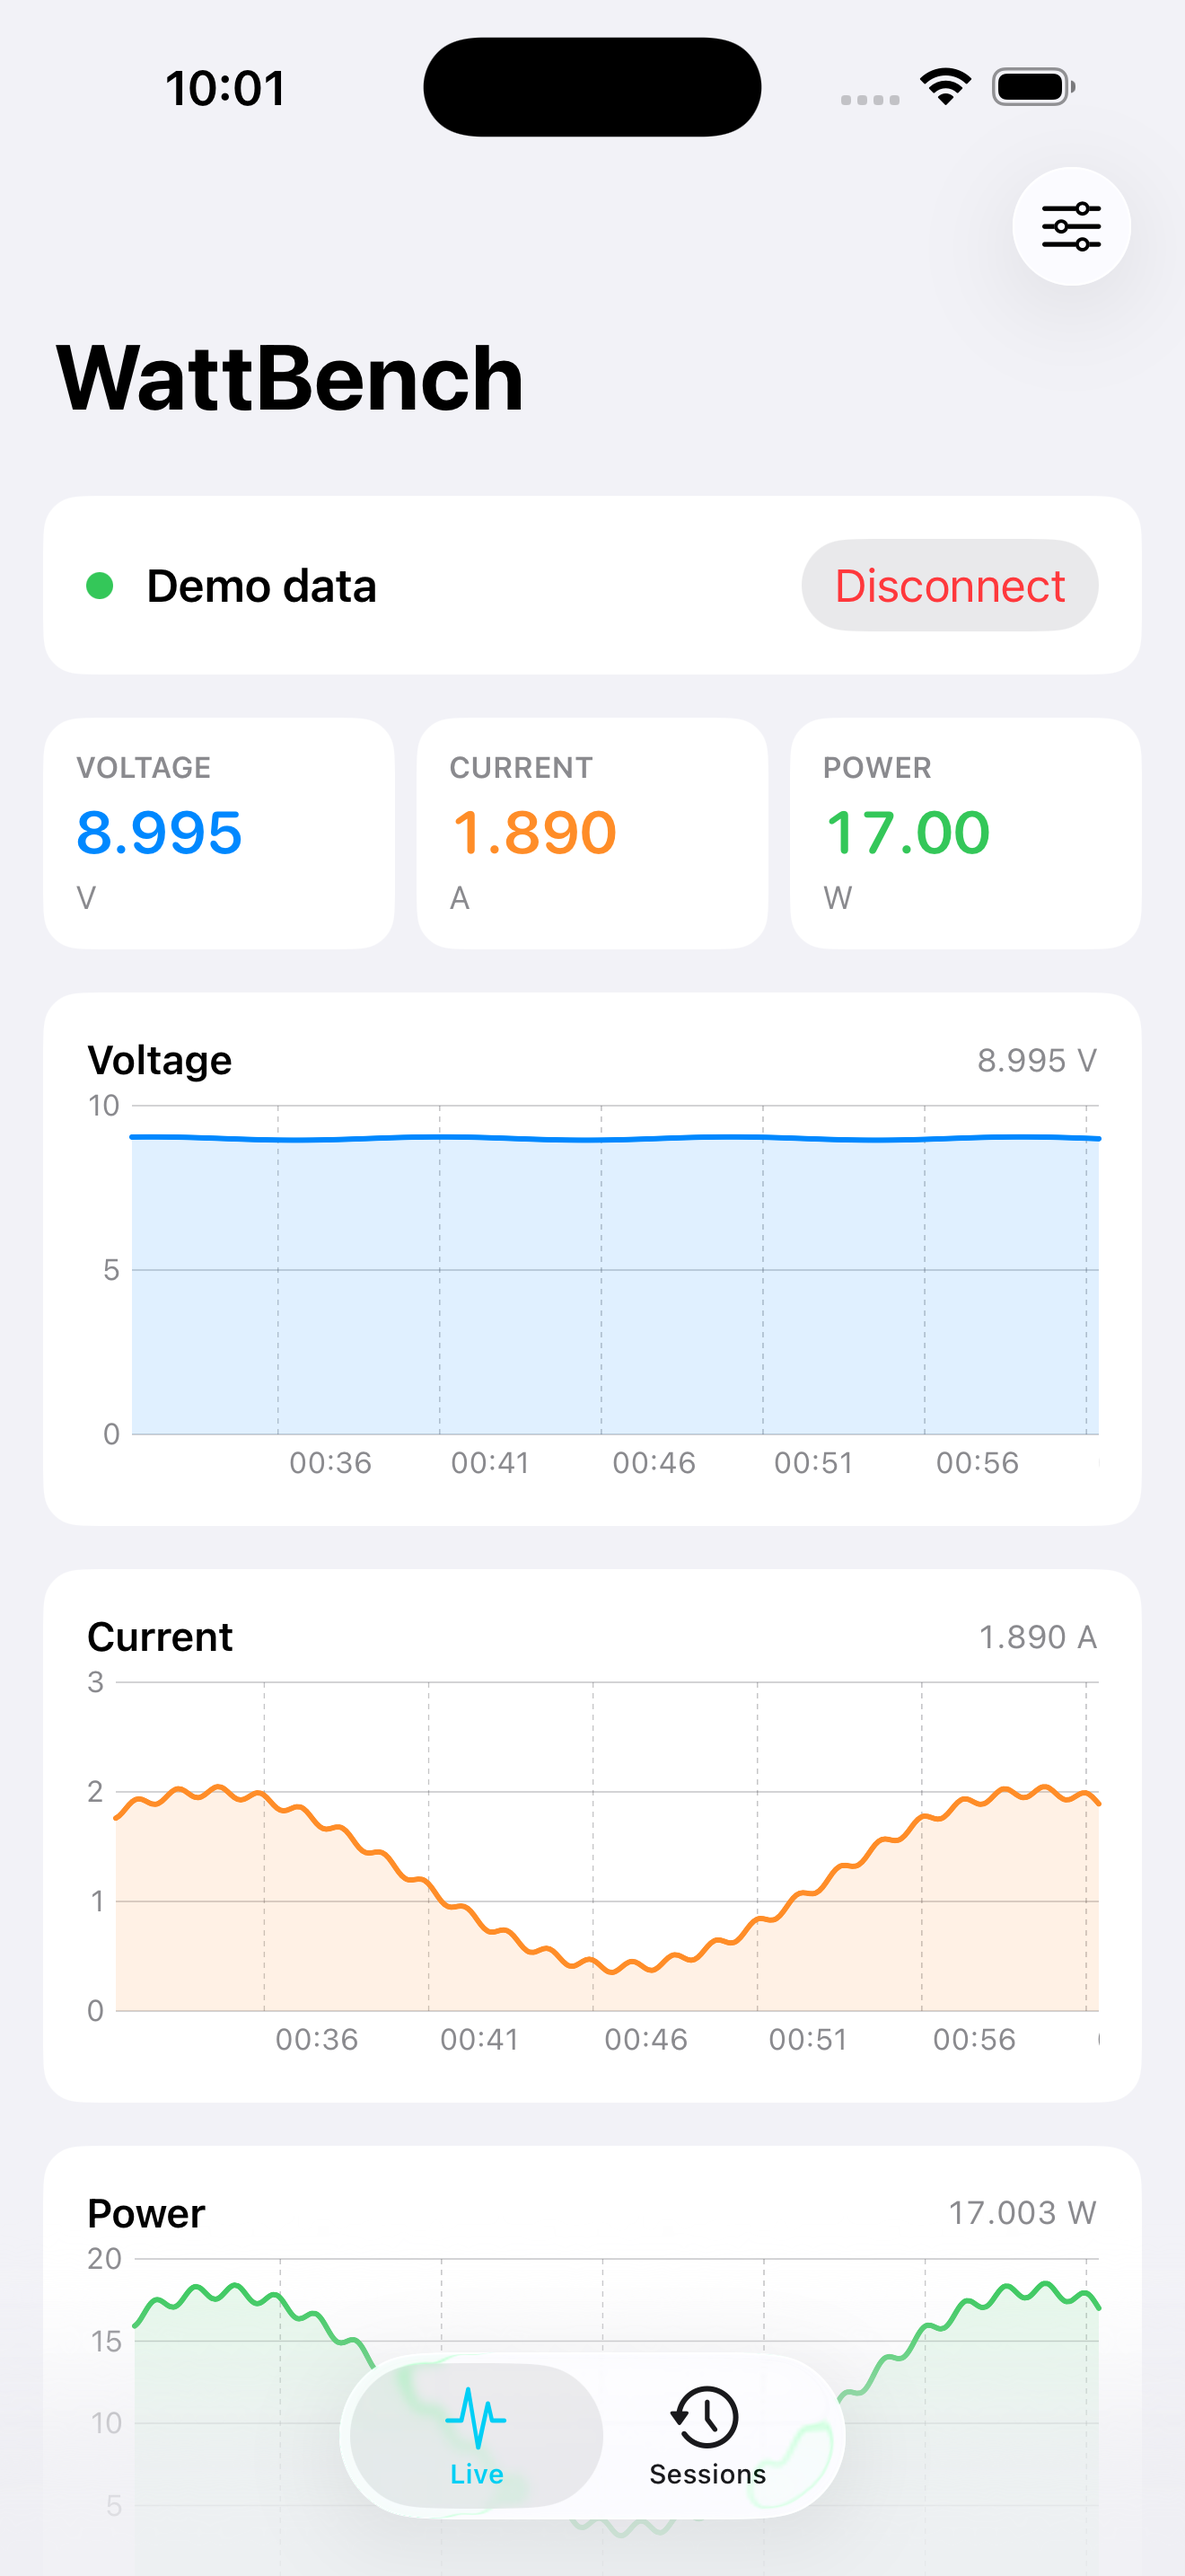
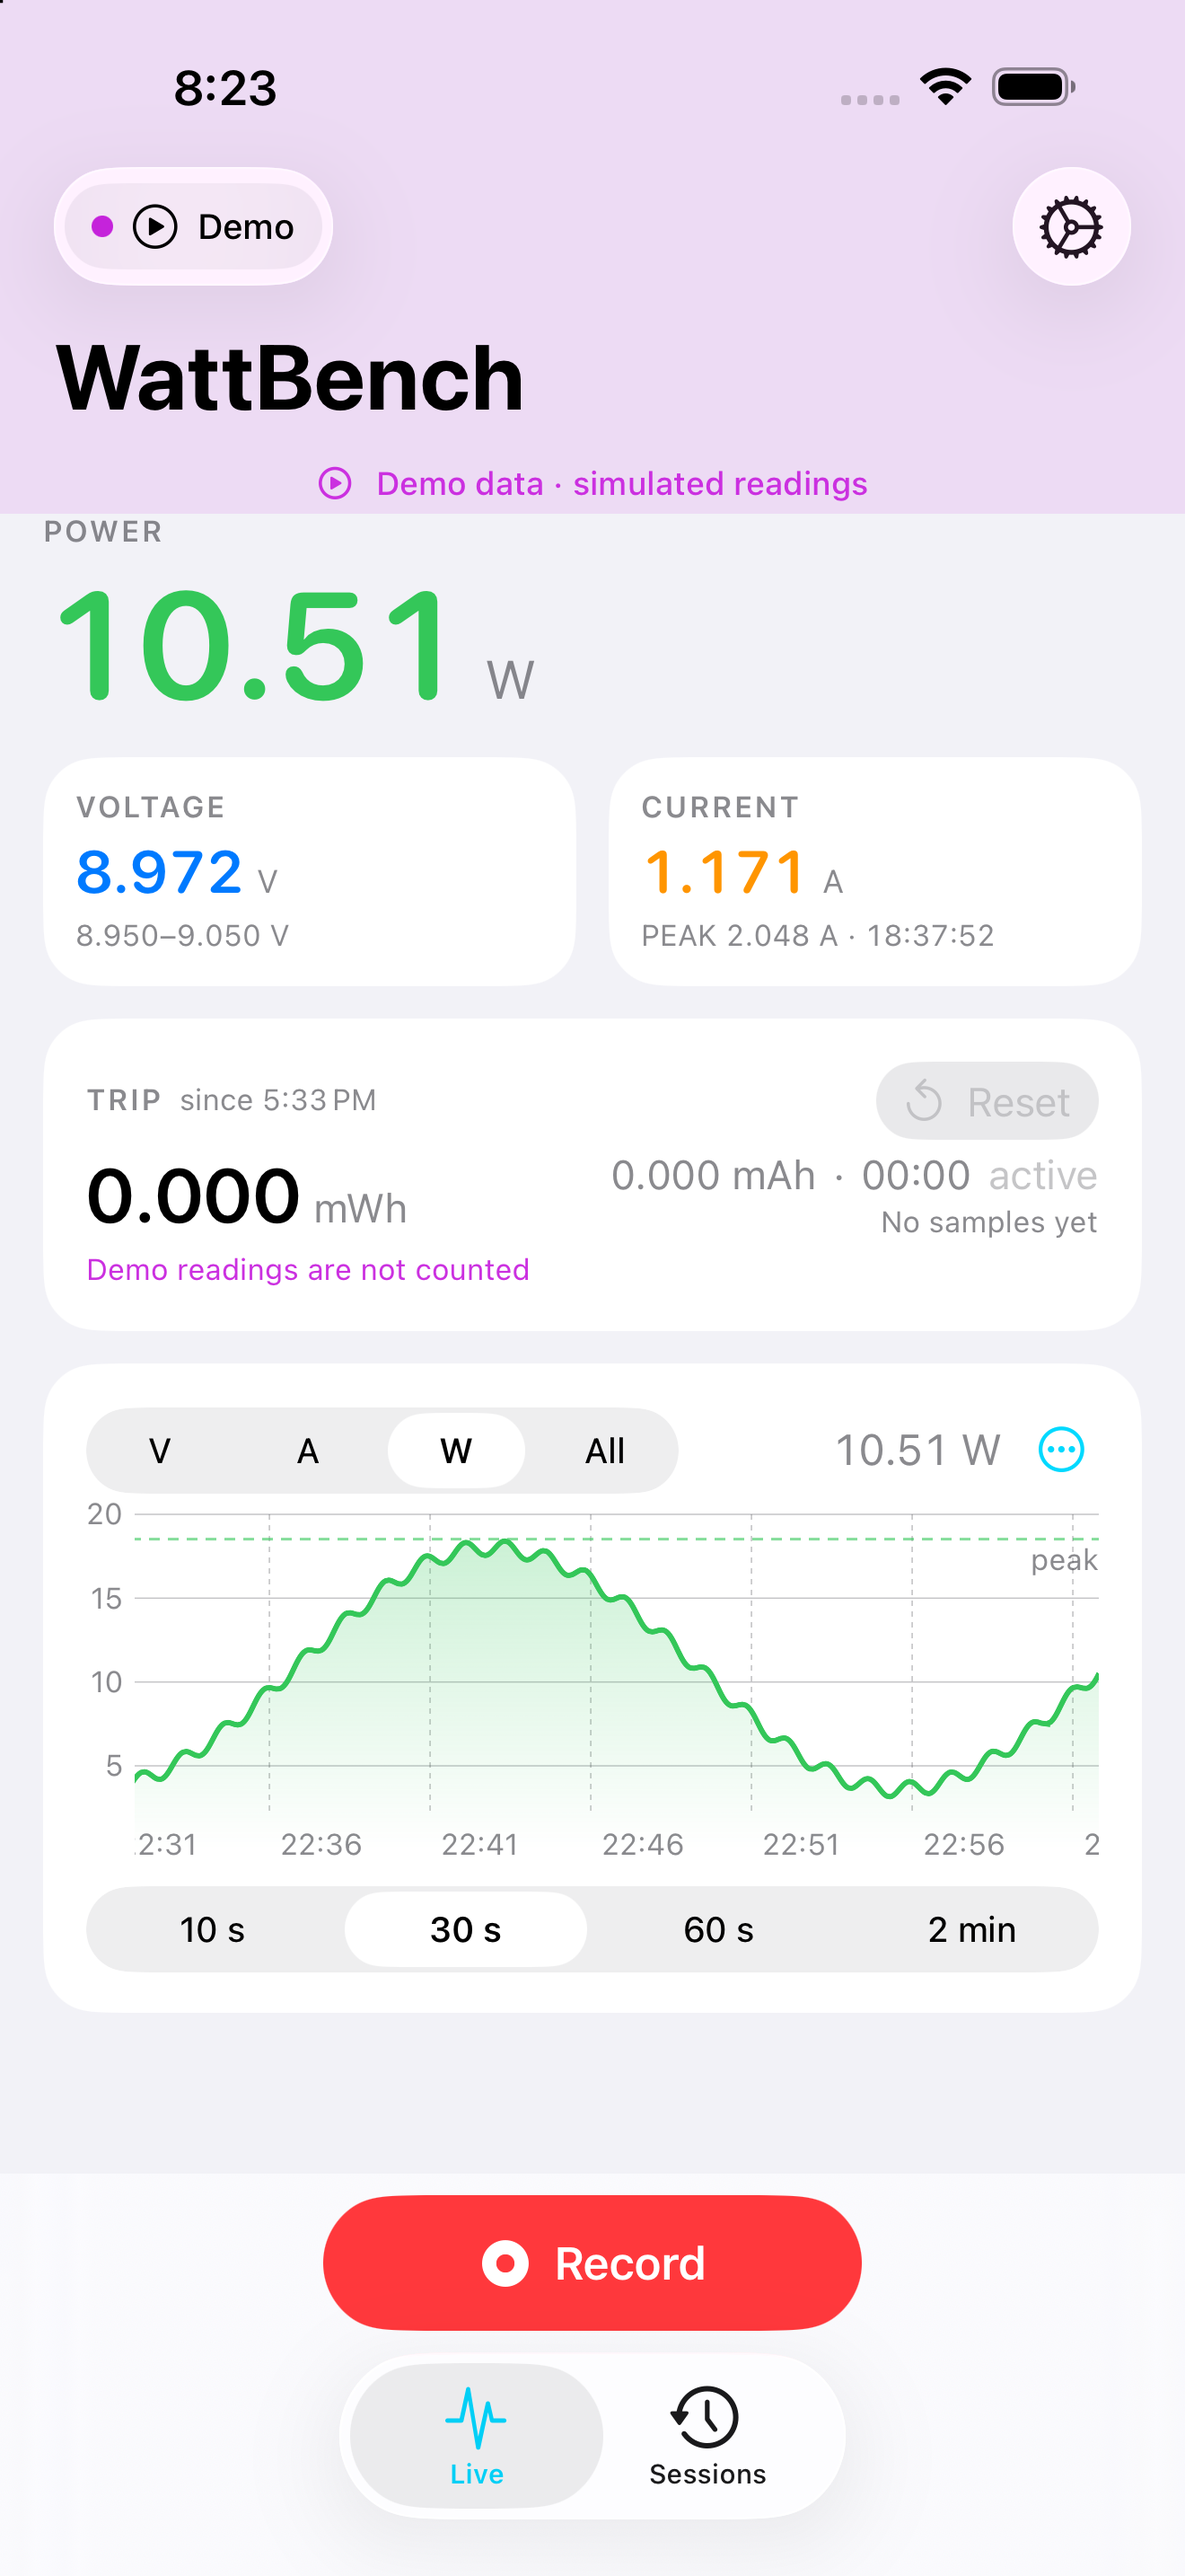
App Store listing copy and status; LinkedIn draft

diff --git a/ios/AppStore/metadata.md b/ios/AppStore/metadata.md
@@ -9,6 +9,8 @@ App Store Connect enforces them.
 |---|---|
 | Name (30) | WattBench |
 | Subtitle (30) | Live power meter for FNB58 |
+| Price | $2.99 (USD base tier; comparable prices in 175 storefronts) |
+| Apple ID | 6816404264 |
 | Bundle ID | com.thebench.wattbench |
 | SKU | wattbench-ios |
 | Primary language | English (U.S.) |
@@ -16,7 +18,7 @@ App Store Connect enforces them.
 | Secondary category | Developer Tools |
 | Content rights | Does not contain third-party content |
 | Age rating | 4+ (no questionable content in any category) |
-| Price | Free |
+| Availability | All 175 countries/regions |
 | Privacy policy URL | https://github.com/RedThoroughbred/FNB58-MacOS/blob/main/PRIVACY.md |
 | Support URL | https://github.com/RedThoroughbred/FNB58-MacOS/issues |
 | Marketing URL | https://github.com/RedThoroughbred/FNB58-MacOS |
@@ -51,7 +53,7 @@ WattBench is an independent project and is not affiliated with or endorsed by FN
 
 ## Keywords (100, comma-separated)
 
-FNB58,FNIRSI,USB power meter,USB tester,voltage,current,watt,charger,battery capacity,mAh,data logger
+FNB58,FNIRSI,USB power meter,voltage,current,watt,charger,battery capacity,mAh,data logger,bench
 
 ## What's New (1.1)
 
@@ -104,3 +106,12 @@ iPhone 6.9" (1320 × 2868) — `ios/AppStore/screenshots/`. The app is iPhone-on
 
 Captured from the iPhone 17 Pro Max simulator in demo mode (`xcrun simctl io <udid> screenshot`).
 Replace with real-meter captures from an iPhone when available — same sizes.
+
+
+## Status (2026-09-26)
+
+Entered in App Store Connect: name, subtitle, categories (Utilities / Developer Tools), content rights,
+age rating 4+, privacy policy URL + "Data Not Collected" (published), price $2.99, availability worldwide,
+DSA non-trader declaration, description/promo/keywords/URLs/review notes, 7 screenshots (4 light, 3 dark,
+6.5" 1284x2778 from `screenshots/6.5/`). Pending: App Review contact phone/email, build upload
+(Xcode Organizer), attach build, Submit for Review.

diff --git a/ios/AppStore/linkedin.md b/ios/AppStore/linkedin.md
@@ -1,0 +1,21 @@
+# LinkedIn post draft (publish after App Review approval)
+
+I just shipped my first paid iPhone app: **WattBench** — a Bluetooth companion for the FNIRSI FNB58 USB power meter.
+
+Bench people know the problem: the meter shows numbers, but the moment you want to *log* a charge cycle, compare two cables, or know how many mAh actually went into a power bank, you're squinting at a tiny screen and writing things down.
+
+WattBench turns the phone into the instrument face:
+• live voltage / current / power with rolling digits and peak hold
+• a trip counter for Wh and mAh since you plugged in
+• recordings that keep going with the screen locked — and survive a crash
+• session reports with a zoomable chart, range statistics, markers and CSV export
+• threshold alerts that notify you when something goes wrong
+
+Built natively in SwiftUI with CoreBluetooth, no accounts, no analytics, nothing leaves the phone.
+
+Fun engineering notes: the meter's Bluetooth frames were reverse-engineered by the community; the app journals every sample to disk in a compact binary format so a force-quit loses at most ten seconds; and the live display is throttled to 5 Hz so it stays smooth on a 10 Hz data stream.
+
+App Store link: <insert after approval>
+GitHub (desktop companion + protocol notes): https://github.com/RedThoroughbred/FNB58-MacOS
+
+#iOS #SwiftUI #Electronics #USB #Bluetooth #IndieDev
